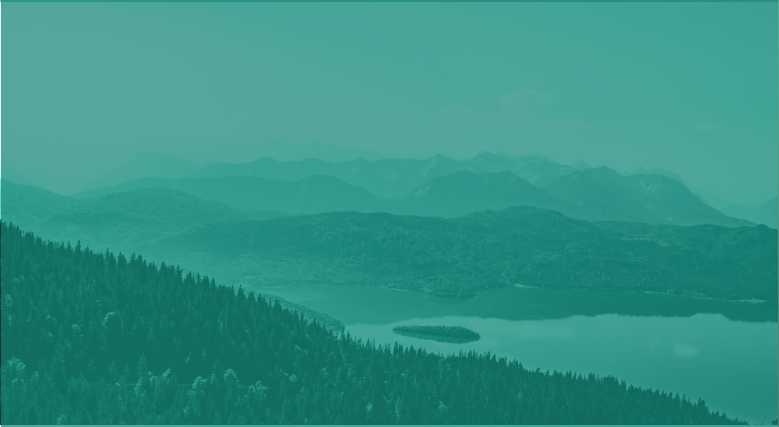
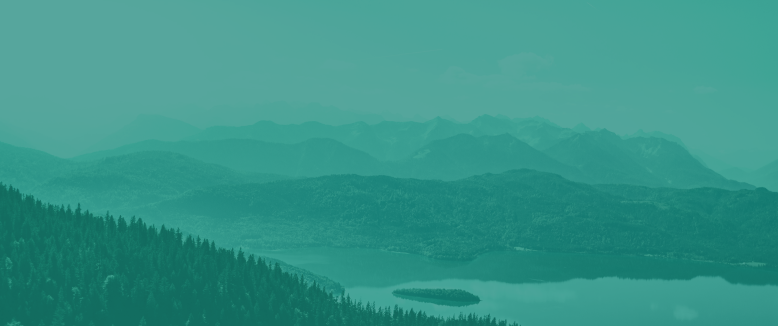
Fixed bg image & margins

diff --git a/apps/site-app/src/components/AppContainers/index.tsx b/apps/site-app/src/components/AppContainers/index.tsx
@@ -1,8 +1,12 @@
 import React from "react";
 import styles from './styles.module.less';
 
-export const AppContainer : React.FC = (props) =>
-  <div className={ `${styles.appContainer}` }>{props.children}</div>;
+type AppContainerProps = {
+  className?: string,
+}
+
+export const AppContainer : React.FC<AppContainerProps> = (props) =>
+  <div className={ `${styles.appContainer} ${props.className}` }>{props.children}</div>;
 
 export const AppContainerWithShadow : React.FC = (props) =>
   <div className={ `${styles.appContainer} ${styles.appContainerPadding} ${styles.appShadow}` }>{props.children}</div>;
@@ -10,6 +14,6 @@ export const AppContainerWithShadow : React.FC = (props) =>
 export const AppContainerWithShadowWithoutPadding : React.FC = (props) =>
   <div className={ `${styles.appContainer} ${styles.appShadow}` }>{props.children}</div>;
 
-export const AppContainerForTabs : React.FC = (props) => 
+export const AppContainerForTabs : React.FC = (props) =>
   <div className={ `${styles.appContainer} ${styles.appContainerPadding} ${styles.topRightFlat}` }>{props.children}</div>;
 

diff --git a/apps/site-app/src/containers/HistoryGraph/index.tsx b/apps/site-app/src/containers/HistoryGraph/index.tsx
@@ -1,12 +1,12 @@
 import React, { useState } from "react";
 import { useActiveAccount } from "@the-coin/shared/containers/AccountMap/selectors";
-import { Container } from "semantic-ui-react";
 import { GraphTxHistory, Theme } from '@the-coin/shared/components/GraphTxHistory'
 import { LessVars } from "@the-coin/site-base/styles/variables";
 import { DateTime } from "luxon";
 import styles from './styles.module.less';
 import { Tooltip } from "./Tooltip/Tooltip";
 import { Duration, DurationButtons } from "./DurationButtons";
+import { AppContainer } from "components/AppContainers";
 
 const theme: Theme = {
   fontSize: 10,
@@ -36,7 +36,7 @@ export const HistoryGraph = () => {
     : undefined;
 
   return (
-    <Container className={styles.graphBackground}>
+    <AppContainer className={styles.graphBackground}>
       <DurationButtons duration={duration} setDuration={setDuration} />
       <GraphTxHistory
         txs={txs}
@@ -45,6 +45,6 @@ export const HistoryGraph = () => {
         height={275}
         tooltip={Tooltip}
       />
-    </Container>
+    </AppContainer>
   )
 }

diff --git a/apps/site-app/src/components/AppContainers/styles.module.less b/apps/site-app/src/components/AppContainers/styles.module.less
@@ -1,7 +1,7 @@
 @import "~@the-coin/site-base/styles/variables.less";
 
 .appBorders{
-    border-radius: 10px;
+    border-radius: @absoluteBorderRadius;
     border-color: @theCoinPalettePaleGreen2;
 }
 
@@ -14,7 +14,7 @@
 }
 
 .appContainer{
-    border-radius: 10px;
+    border-radius: @absoluteBorderRadius;
     border: 1px solid @theCoinPalettePaleGreen2;
     background-color: @white;
     box-shadow: 0px 0px 10px 0px @theCoinPaletteGray3;

diff --git a/libs/shared/src/components/GraphTxHistory/index.tsx b/libs/shared/src/components/GraphTxHistory/index.tsx
@@ -104,7 +104,7 @@ const calcMinMax = (datum: TxDatum[]) => {
 // ----------------------------------------------------------------
 // graph settings below
 const commonProperties: Partial<LineSvgProps> = {
-  margin: { top: 20, right: 20, bottom: 20, left: 60 },
+  margin: { top: 0, right: 0, bottom: 20, left: 40 },
   animate: true,
   enableArea: true,
   enableGridX: false,

diff --git a/apps/site-app/src/containers/HistoryGraph/styles.module.less b/apps/site-app/src/containers/HistoryGraph/styles.module.less
@@ -6,6 +6,8 @@
     padding: 30px;
     height: 350px;
     margin: auto;
+    margin-top: 10px;
+    margin-bottom: 30px;
     color: @white;
     background: url("./background.png") no-repeat center bottom;
     background-size: cover;

diff --git a/apps/site-app/src/containers/HistoryGraph/DurationButtons/styles.module.less b/apps/site-app/src/containers/HistoryGraph/DurationButtons/styles.module.less
@@ -5,8 +5,6 @@
   display: flex;
   flex-direction: row;
   justify-content: flex-end;
-  padding-top: 21px;
-  padding-right: 31px;
 
   .button {
     opacity: 60%;
